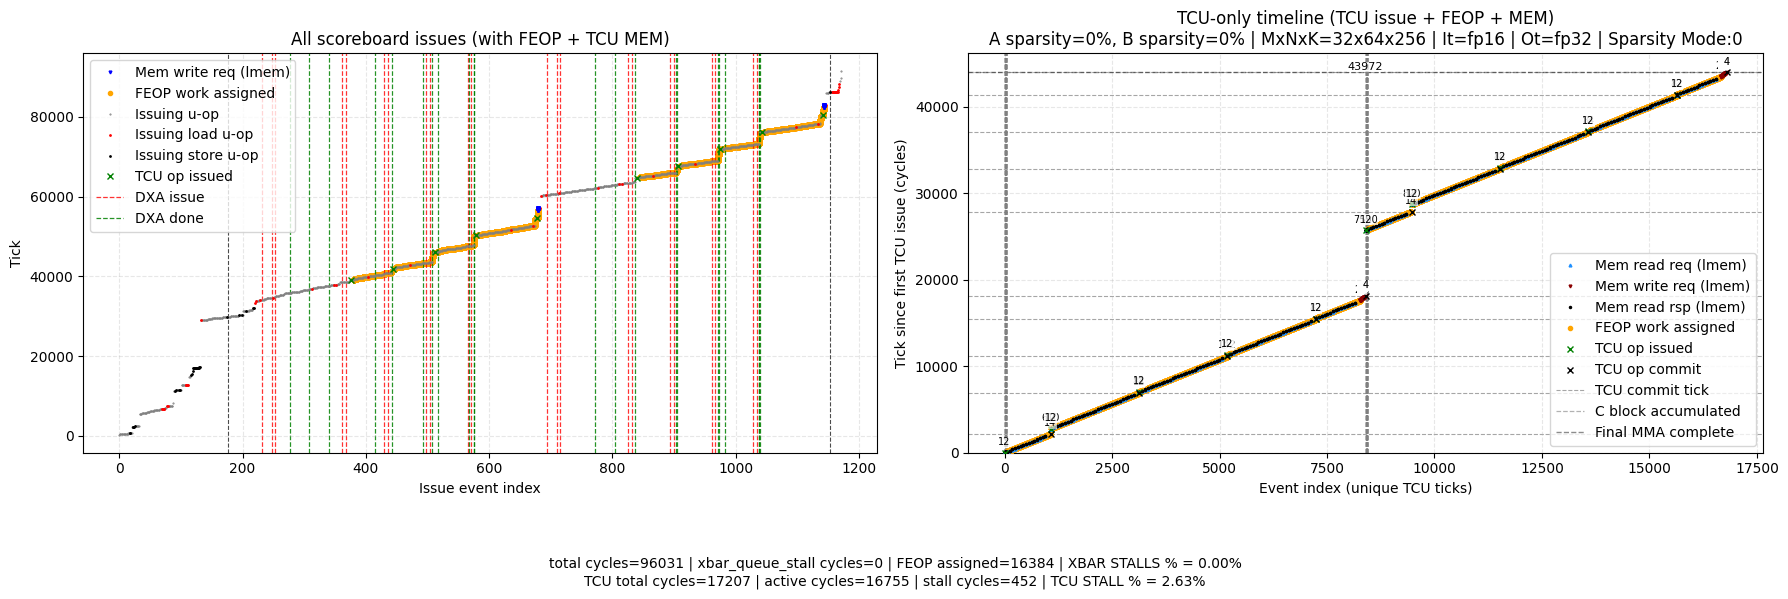
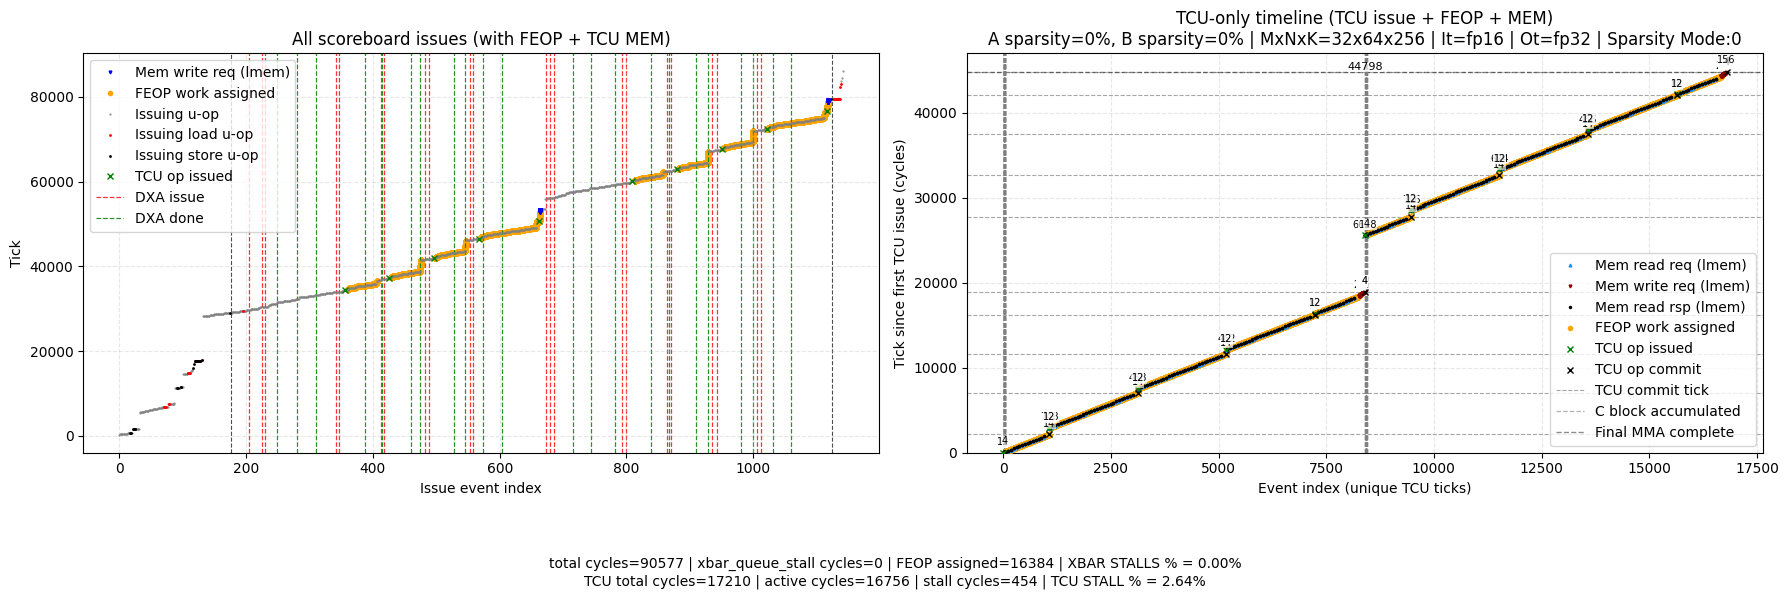
minor

diff --git a/tests/regression/sgemm_tcu_op/kernel.cpp b/tests/regression/sgemm_tcu_op/kernel.cpp
@@ -285,31 +285,42 @@ extern "C" void kernel_main(kernel_arg_t *__UNIFORM__ arg) {
 
   if (lane0) {TRACE_STORE(C_lmem, MARKER);}
 
-  for (uint32_t tile_row_idx = tile_row / tile_M; tile_row_idx < tiles_m; ++tile_row_idx) {
-    const uint32_t a_tile_base = tile_row_idx * tile_M * K;
-
-    for (uint32_t tile_col_idx = 0; tile_col_idx < tiles_n; ++tile_col_idx) {
-      const uint32_t b_tile_base = tile_col_idx * K * tile_N;
-      const uint32_t tile_row_tiles_base = tile_row_idx * tiles_k;
-      const uint32_t tile_col_tiles_base = tile_col_idx * tiles_k;
-
-      const uint32_t tile_id = tile_row_idx * tiles_n + tile_col_idx;
-      const uintptr_t mma_D_addr = static_cast<uintptr_t>(arg->D_addr) + static_cast<uintptr_t>(tile_id) * tileD_regs * sizeof(uint32_t);
-      uint32_t* mma_D = reinterpret_cast<uint32_t*>(mma_D_addr);
-      const uint32_t* mma_C = reinterpret_cast<const uint32_t *>(C_lmem);
-      const uint32_t* pC_tile = pC + tile_id * tileC_regs;
-
-      if constexpr (kDense) {
+  if constexpr (kDense) {
+#pragma unroll
+    for (uint32_t tile_row_idx = tile_row / tile_M; tile_row_idx < tiles_m; ++tile_row_idx) {
+      const uint32_t a_tile_base = tile_row_idx * tile_M * K;
+#pragma unroll
+      for (uint32_t tile_col_idx = 0; tile_col_idx < tiles_n; ++tile_col_idx) {
         bool have_pending_mma = false;
         bool have_inflight_mma = false;
         uint32_t pending_stage = 0;
         uint32_t inflight_stage = 0;
         uintptr_t pending_rs1_val = 0;
         uintptr_t pending_rs2_val = 0;
+        uint32_t stage = 0;
+
+        const uint32_t b_tile_base = tile_col_idx * K * tile_N;
+        const uint32_t tile_row_tiles_base = tile_row_idx * tiles_k;
+        const uint32_t tile_col_tiles_base = tile_col_idx * tiles_k;
+
+        const uint32_t tile_id = tile_row_idx * tiles_n + tile_col_idx;
+        const uintptr_t mma_D_addr = static_cast<uintptr_t>(arg->D_addr) + static_cast<uintptr_t>(tile_id) * tileD_regs * sizeof(uint32_t);
+        uint32_t* mma_D = reinterpret_cast<uint32_t*>(mma_D_addr);
+
+        // A new tile may start on either half. Do not place the next C tile
+        // into a half that is still feeding the currently inflight MMA.
+        // if (have_inflight_mma && stage == inflight_stage) {
+        //   tcu_bar[inflight_stage].arrive_and_wait();
+        //   have_inflight_mma = false;
+        // }
+
+        const uint32_t* mma_C = reinterpret_cast<const uint32_t *>((stage == 0) ? dense_half0 : dense_half1);
+        const uint32_t* pC_tile = pC + tile_id * tileC_regs;
 
         if (is_dxa_quad) {
           // vx_dxa_retile_2d_wg(kDescC, tileC_regs, 1);
-          vx_dxa_issue_2d_wg(kDescC, load_bar[0].id(), C_lmem, 0, tile_id);
+          tcu_bar[stage].arrive_and_wait();
+          vx_dxa_issue_2d_wg(kDescC, load_bar[stage].id(), mma_C, 0, tile_id);
         }
 
         static constexpr uint32_t kDenseLaunches = 1 + ((K > tile_K) ? div_up_constexpr(K - tile_K, 2 * tile_K) : 0);
@@ -319,7 +330,7 @@ extern "C" void kernel_main(kernel_arg_t *__UNIFORM__ arg) {
           // const uint32_t* mma_A_bitmap = reinterpret_cast<const uint32_t *>(A_bitmap_lmem);
           // const uint32_t* mma_B_bitmap = reinterpret_cast<const uint32_t *>(B_bitmap_lmem);
           const uint32_t k_tile_idx = k_offset / tile_K;
-          const uint32_t stage = dense_iter & 1u;
+          // const uint32_t stage = dense_iter & 1u;
           const bool use_half0 = (stage == 0);
           const bool first_dense_launch = (dense_iter == 0);
           uint32_t* chunk_A = A_lmem;
@@ -343,14 +354,19 @@ extern "C" void kernel_main(kernel_arg_t *__UNIFORM__ arg) {
           curr_k = (k_remaining < dense_k_cap) ? k_remaining : dense_k_cap;
           uint32_t a_elems = tile_M * curr_k;
           uint32_t b_elems = curr_k * tile_N;
-          chunk_A = use_half0 ? (first_dense_launch ? (dense_half0 + tileC_regs) : dense_half0) : dense_half1;
-          chunk_B = use_half0 ? (chunk_A + (first_dense_launch ? dense_half0_first_a_regs : dense_half0_reuse_a_regs)) : (chunk_A + dense_half1_a_regs);
+          chunk_A = first_dense_launch
+                  ? ((use_half0 ? dense_half0 : dense_half1) + tileC_regs)
+                  :  (use_half0 ? dense_half0 : dense_half1);
+          chunk_B = use_half0
+                  ? (chunk_A + (first_dense_launch ? dense_half0_first_a_regs : dense_half0_reuse_a_regs))
+                  : (chunk_A + dense_half1_a_regs);
           auto chunk_A_elems = reinterpret_cast<ctx::input_t*>(chunk_A);
           auto chunk_B_elems = reinterpret_cast<ctx::input_t*>(chunk_B);
 
           const uint32_t flags_chunk = (((k_offset == 0) ? 1u : 0u) << 1) | (((k_offset + curr_k) == K) ? 1u : 0u);
 
           if (is_dxa_quad) {
+            tcu_bar[stage].arrive_and_wait();
             vx_dxa_retile_2d_wg(kDescA, a_elems, 1);
             vx_dxa_issue_2d_wg(kDescA, load_bar[stage].id(), chunk_A, 0, tile_row_idx * tiles_k + k_tile_idx);
             vx_dxa_retile_2d_wg(kDescB, b_elems, 1);
@@ -396,6 +412,8 @@ extern "C" void kernel_main(kernel_arg_t *__UNIFORM__ arg) {
           pending_rs1_val = rs1_val;
           pending_rs2_val = rs2_val;
           have_pending_mma = true;
+
+          stage = (stage == 0) ? 1 : 0;
         }
 
         if (have_pending_mma) {
@@ -407,9 +425,34 @@ extern "C" void kernel_main(kernel_arg_t *__UNIFORM__ arg) {
           tcu_bar[pending_stage].arrive_and_wait();
           // if (lane0) {C_lmem[0] = MARKER;}
         }
-      } 
-// @@@@@@@@@@@@@@@@@@@@@@@@@@@@@@@@@@@@@@@@@@@@@@@@@@@@@@@@@@@@@@@@@@@@@@@@@@@@@@@@@@@@@@@@@@@@@@@@@@@@@@@@@@@@@@@@@@@@@@@@@@@@@@@@@@@@@@@@@@@@@@@@@@@@@@@@@@@@@@@@@@@@@@@@@@@@@@@@@@@@@@@@@@@@@@@@
-      else {
+      }
+    }
+  } 
+  
+  
+  
+  
+  
+  
+  
+  
+  
+  else {
+    for (uint32_t tile_row_idx = tile_row / tile_M; tile_row_idx < tiles_m; ++tile_row_idx) {
+      const uint32_t a_tile_base = tile_row_idx * tile_M * K;
+
+      for (uint32_t tile_col_idx = 0; tile_col_idx < tiles_n; ++tile_col_idx) {
+        const uint32_t b_tile_base = tile_col_idx * K * tile_N;
+        const uint32_t tile_row_tiles_base = tile_row_idx * tiles_k;
+        const uint32_t tile_col_tiles_base = tile_col_idx * tiles_k;
+
+        const uint32_t tile_id = tile_row_idx * tiles_n + tile_col_idx;
+        const uintptr_t mma_D_addr = static_cast<uintptr_t>(arg->D_addr)
+                                   + static_cast<uintptr_t>(tile_id) * tileD_regs * sizeof(uint32_t);
+        uint32_t* mma_D = reinterpret_cast<uint32_t*>(mma_D_addr);
+        const uint32_t* mma_C = reinterpret_cast<const uint32_t *>(C_lmem);
+        const uint32_t* pC_tile = pC + tile_id * tileC_regs;
+
         if (lane0) {TRACE_STORE(mma_D, MARKER);}
         if (is_dxa_quad) {
           vx_dxa_retile_2d_wg(kDescC, tileC_regs, 1);
